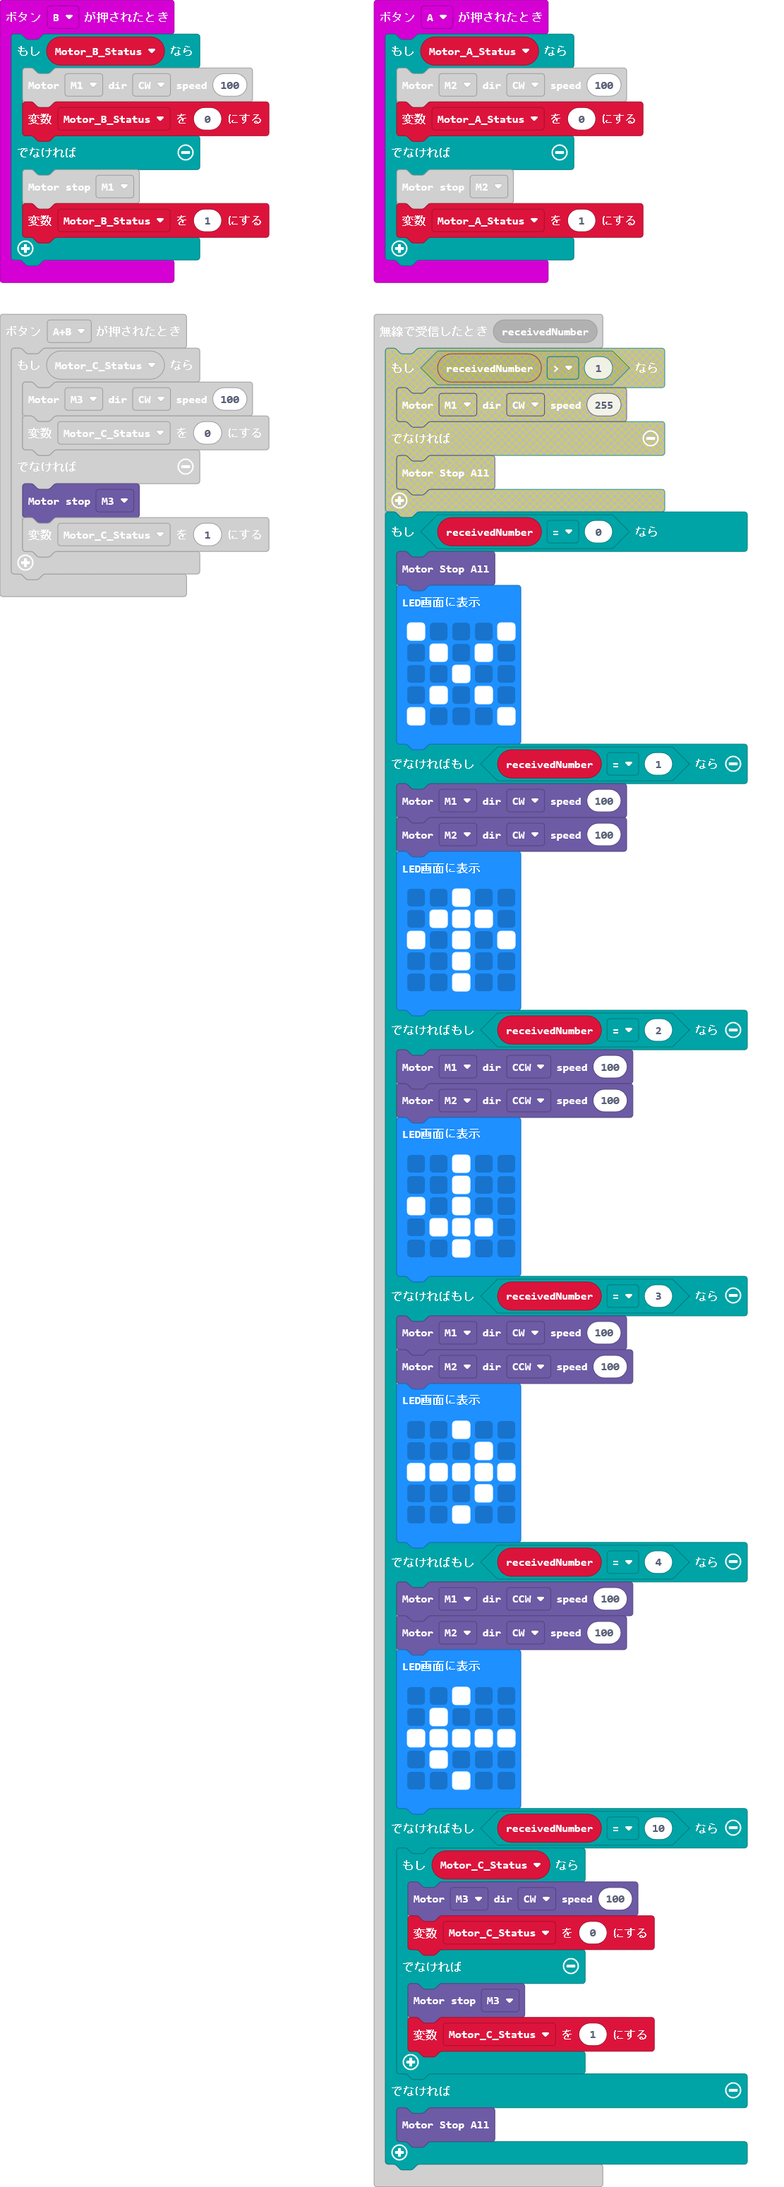
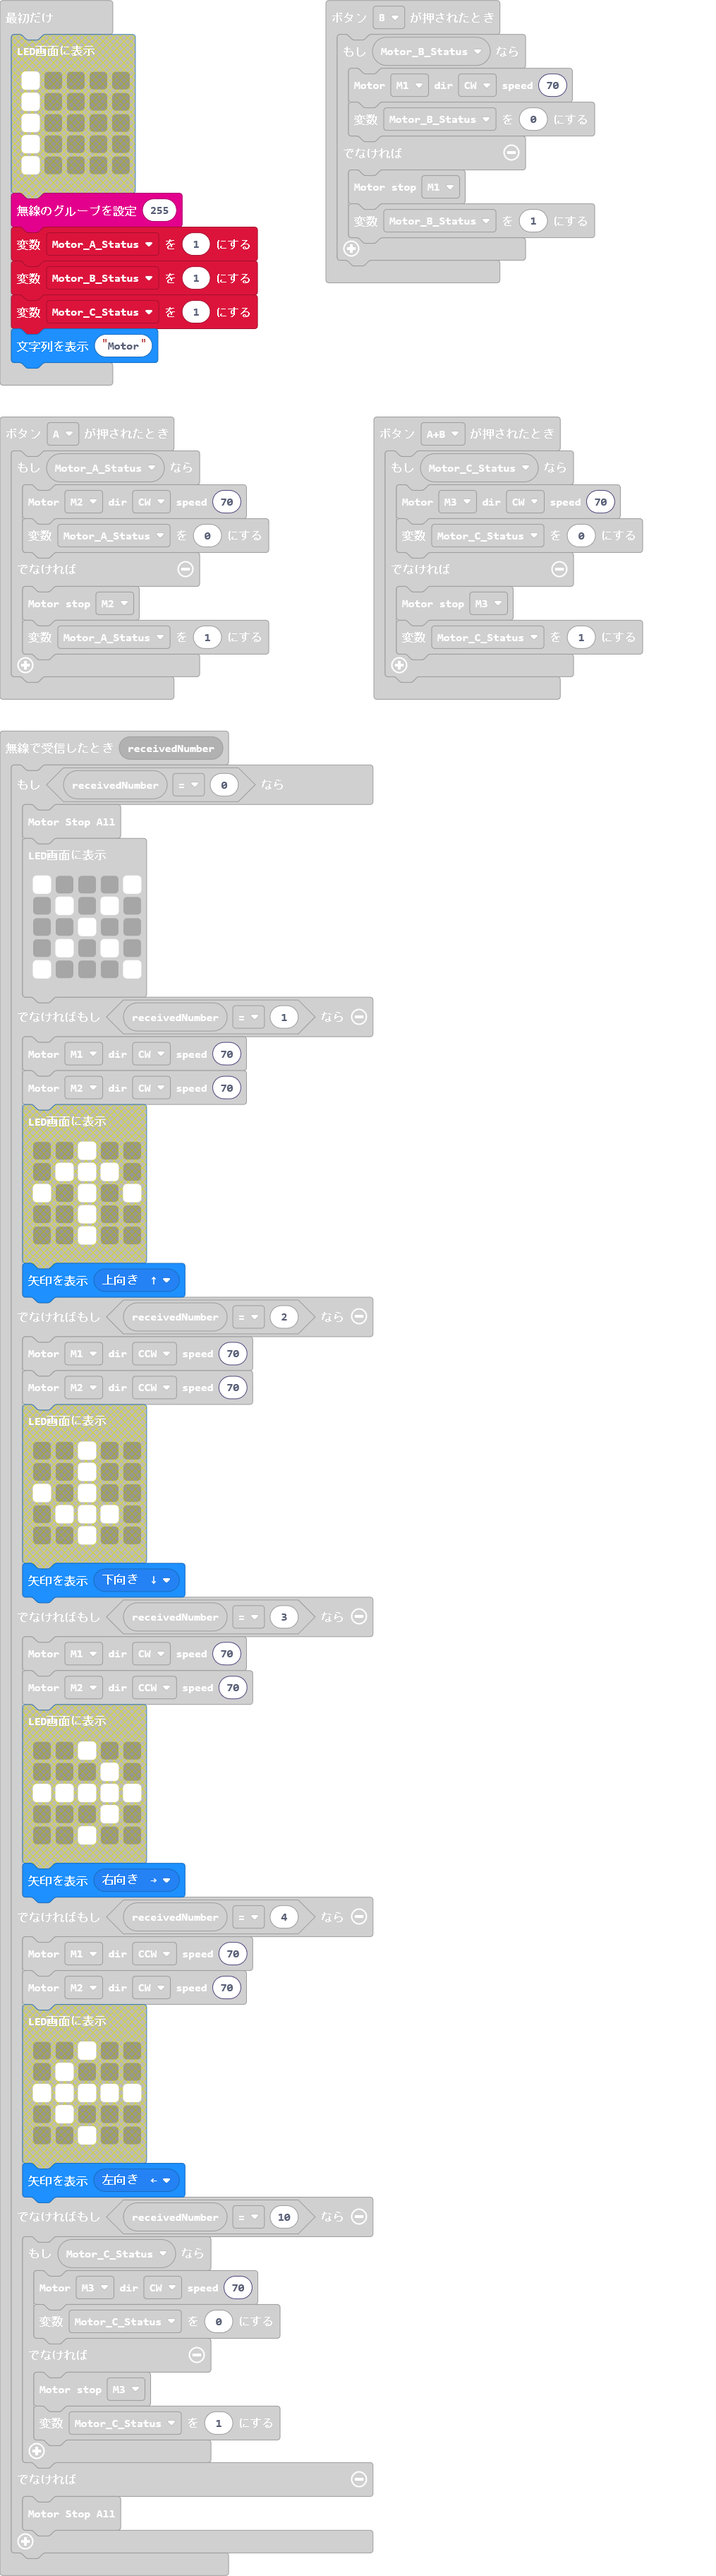
更新 main.blocks, main.ts

diff --git a/main.ts b/main.ts
@@ -9,48 +9,24 @@ radio.onReceivedNumber(function (receivedNumber) {
             # . . . #
             `)
     } else if (receivedNumber == 1) {
-        motor.MotorRun(motor.Motors.M1, motor.Dir.CW, 100)
-        motor.MotorRun(motor.Motors.M2, motor.Dir.CW, 100)
-        basic.showLeds(`
-            . . # . .
-            . # # # .
-            # . # . #
-            . . # . .
-            . . # . .
-            `)
+        motor.MotorRun(motor.Motors.M1, motor.Dir.CW, 70)
+        motor.MotorRun(motor.Motors.M2, motor.Dir.CW, 70)
+        basic.showArrow(ArrowNames.North)
     } else if (receivedNumber == 2) {
-        motor.MotorRun(motor.Motors.M1, motor.Dir.CCW, 100)
-        motor.MotorRun(motor.Motors.M2, motor.Dir.CCW, 100)
-        basic.showLeds(`
-            . . # . .
-            . . # . .
-            # . # . .
-            . # # # .
-            . . # . .
-            `)
+        motor.MotorRun(motor.Motors.M1, motor.Dir.CCW, 70)
+        motor.MotorRun(motor.Motors.M2, motor.Dir.CCW, 70)
+        basic.showArrow(ArrowNames.South)
     } else if (receivedNumber == 3) {
-        motor.MotorRun(motor.Motors.M1, motor.Dir.CW, 100)
-        motor.MotorRun(motor.Motors.M2, motor.Dir.CCW, 100)
-        basic.showLeds(`
-            . . # . .
-            . . . # .
-            # # # # #
-            . . . # .
-            . . # . .
-            `)
+        motor.MotorRun(motor.Motors.M1, motor.Dir.CW, 70)
+        motor.MotorRun(motor.Motors.M2, motor.Dir.CCW, 70)
+        basic.showArrow(ArrowNames.East)
     } else if (receivedNumber == 4) {
-        motor.MotorRun(motor.Motors.M1, motor.Dir.CCW, 100)
-        motor.MotorRun(motor.Motors.M2, motor.Dir.CW, 100)
-        basic.showLeds(`
-            . . # . .
-            . # . . .
-            # # # # #
-            . # . . .
-            . . # . .
-            `)
+        motor.MotorRun(motor.Motors.M1, motor.Dir.CCW, 70)
+        motor.MotorRun(motor.Motors.M2, motor.Dir.CW, 70)
+        basic.showArrow(ArrowNames.West)
     } else if (receivedNumber == 10) {
         if (Motor_C_Status) {
-            motor.MotorRun(motor.Motors.M3, motor.Dir.CW, 100)
+            motor.MotorRun(motor.Motors.M3, motor.Dir.CW, 70)
             Motor_C_Status = 0
         } else {
             motor.motorStop(motor.Motors.M3)
@@ -62,7 +38,7 @@ radio.onReceivedNumber(function (receivedNumber) {
 })
 input.onButtonPressed(Button.A, function () {
     if (Motor_A_Status) {
-        motor.MotorRun(motor.Motors.M2, motor.Dir.CW, 100)
+        motor.MotorRun(motor.Motors.M2, motor.Dir.CW, 70)
         Motor_A_Status = 0
     } else {
         motor.motorStop(motor.Motors.M2)
@@ -71,7 +47,7 @@ input.onButtonPressed(Button.A, function () {
 })
 input.onButtonPressed(Button.AB, function () {
     if (Motor_C_Status) {
-        motor.MotorRun(motor.Motors.M3, motor.Dir.CW, 100)
+        motor.MotorRun(motor.Motors.M3, motor.Dir.CW, 70)
         Motor_C_Status = 0
     } else {
         motor.motorStop(motor.Motors.M3)
@@ -80,7 +56,7 @@ input.onButtonPressed(Button.AB, function () {
 })
 input.onButtonPressed(Button.B, function () {
     if (Motor_B_Status) {
-        motor.MotorRun(motor.Motors.M1, motor.Dir.CW, 100)
+        motor.MotorRun(motor.Motors.M1, motor.Dir.CW, 70)
         Motor_B_Status = 0
     } else {
         motor.motorStop(motor.Motors.M1)
@@ -90,13 +66,7 @@ input.onButtonPressed(Button.B, function () {
 let Motor_C_Status = 0
 let Motor_B_Status = 0
 let Motor_A_Status = 0
-basic.showLeds(`
-    # . . . .
-    # . . . .
-    # . . . .
-    # . . . .
-    # . . . .
-    `)
+basic.showString("Motor")
 radio.setGroup(255)
 Motor_A_Status = 1
 Motor_B_Status = 1
